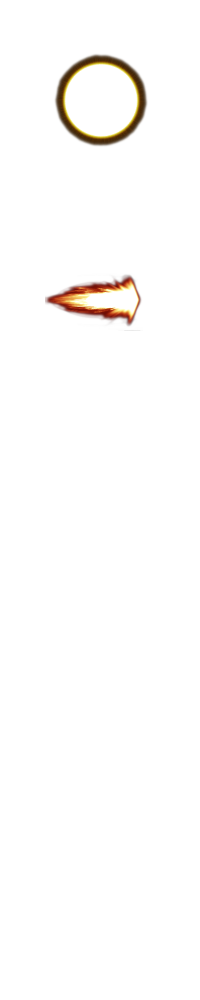
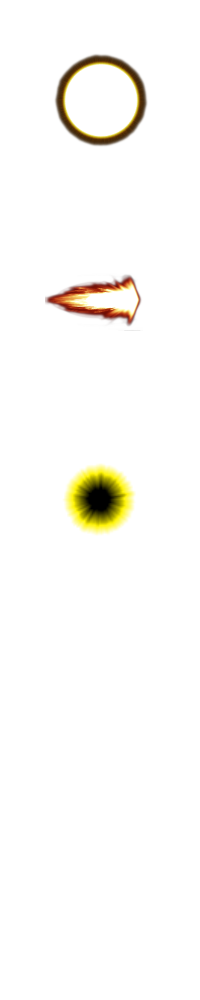
Beginning flight attack

Changed region(s): [[0.3, 0.465, 0.69, 0.558]]

diff --git a/components/OkuuController.js b/components/OkuuController.js
@@ -2,6 +2,7 @@ class OkuuController extends BossController {
     constructor(boss, game) {
         super(boss, game, 40);
         this.timer = 0.5;
+        this.antiCollision = false;
         // this.gravity = 2000;
     };
     setBossTime() {
@@ -23,7 +24,7 @@ class OkuuController extends BossController {
         this.shotTimer -= this.game.clockTick;
     }
     sideCollisions(){
-        if (this.boss.state > 2 && this.boss.state < 16 || this.boss.state > 17) {
+        if (!this.antiCollision) {
             let offset = this.boss.BB.x - this.boss.x
             if (this.boss.BB.x <= 0) { //LEFT COLLISION
                 this.boss.x = 0 - offset;
@@ -37,19 +38,23 @@ class OkuuController extends BossController {
         if (this.timer <= 0 && this.attackDuration <= 0 && this.boss.state == 0) { //ATTACKS FROM IDLE
             this.facePlayer();
 
-            // this.attack(18);
-            let roll = this.rollForAttack(4);
-            switch(roll) {
-                case(0): {this.attack(4); break; }
-                case(1): {this.attack(9); break; }
-                case(2): {this.attack(14); break; }
-                case(3): {this.attack(18); break; }
-            }
+            this.attackDuration = 0.5;
+            this.boss.state = 23;
+            this.antiGrav = true;
+
+            // let roll = this.rollForAttack(4);
+            // switch(roll) {
+            //     case(0): {this.attack(4); break; }
+            //     case(1): {this.attack(9); break; }
+            //     case(2): {this.attack(14); break; }
+            //     case(3): {this.attack(18); break; }
+            // }
         }
         if (this.attackDuration > 0 || this.timer > 0) { //DURING STATE
             switch(this.boss.state) {
                 case(1):
                 case(2): {
+                    this.gravity = 1500;
                     if (this.yVelocity >= 0 && this.boss.y == 700 - this.boss.yBoxOffset) {
                         this.attackDuration = 0;
                         this.xVelocity = 0;
@@ -123,6 +128,19 @@ class OkuuController extends BossController {
                     this.shotTimer -= this.game.clockTick;
                     break;
                 }
+                // case(23): {
+                //     if (this.attackDuration < 0.8) this.yVelocity -= 800 * this.game.clockTick;
+                //     break;
+                // }
+                case(24): {
+                    if (this.attackDuration > 1) this.yVelocity -= 800 * this.game.clockTick;
+                    this.xVelocity += (1 - this.boss.facing * 2) * 1500 * this.game.clockTick; 
+                    break;
+                }
+                case(25): {
+                    this.xVelocity -= (1 - this.boss.facing * 2) * 1500 * this.game.clockTick; 
+                    break;
+                }
             }
         }
         if (this.attackDuration <= 0 && this.boss.state > 0) { //AFTER STATE
@@ -174,6 +192,7 @@ class OkuuController extends BossController {
                     break;
                 }
                 case(15): {
+                    this.antiCollision = true;
                     this.attack(16);
                     ASSET_MANAGER.playSound("Fly");
                     this.shotTimer = 1;
@@ -222,12 +241,35 @@ class OkuuController extends BossController {
                     this.attack(22);
                     break;
                 }
-                case(22): {
+                case(22):
+                case(26): {
                     this.boss.state = 2;
                     this.attackDuration = 2;
                     break;
                 }
+                case(23): {
+                    this.antiCollision = true;
+                    this.attackDuration = 1.5;
+                    this.boss.state = 24;
+                    break;
+                }
+                case(24): {
+                    this.xVelocity = 0;
+                    this.yVelocity = 0;
+                    this.attackDuration = 1.5;
+                    this.boss.state = 25;
+                    break;
+                }
+                case(25): {
+                    this.xVelocity = this.xVelocity / 4;
+                    this.antiCollision = false;
+                    this.antiGrav = false;
+                    this.attack(26);
+                    break;
+                }
                 default: {
+                    this.antiCollision = false;
+                    this.gravity = 2000;
                     this.timer =  0.7;
                     this.boss.state = 0;
                     this.xVelocity = 0;

diff --git a/Entities/Okuu.js b/Entities/Okuu.js
@@ -37,6 +37,11 @@ class Okuu extends Character {
         this.makeAnimation(20, 5, 4, 5, 10);
         this.makeAnimation(21, 5, 9, 3, 12);
         this.makeAnimation(22, 5, 12, 3, 15);
+        //FLIGHT
+        this.makeAnimation(23, 6, 0, 1, 1);
+        this.makeAnimation(24, 6, 1, 2, 12);
+        this.makeAnimation(25, 6, 3, 2, 12);
+        this.makeAnimation(26, 6, 3, 3, 12);
         //KNOCKBACK
         this.makeAnimation(40, 8, 0, 8, 15);
         this.makeAnimation(41, 8, 5, 3, 10);
